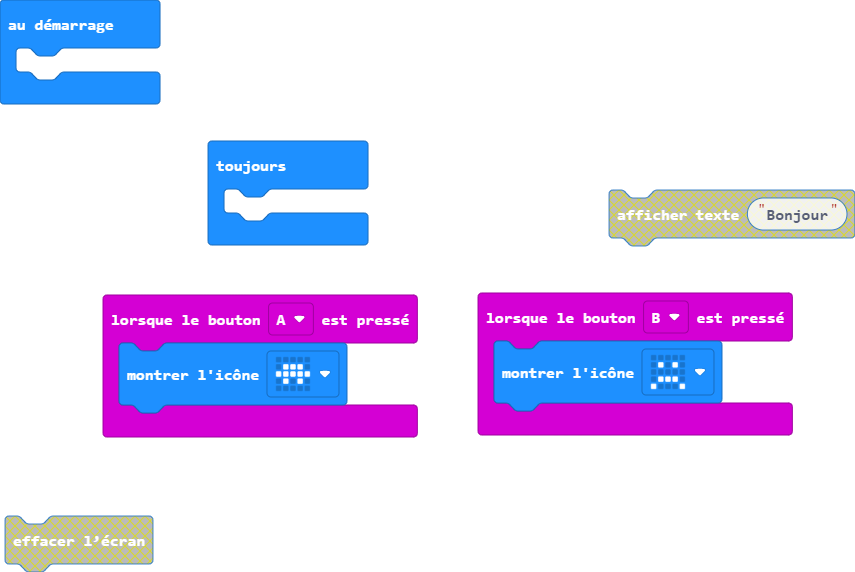
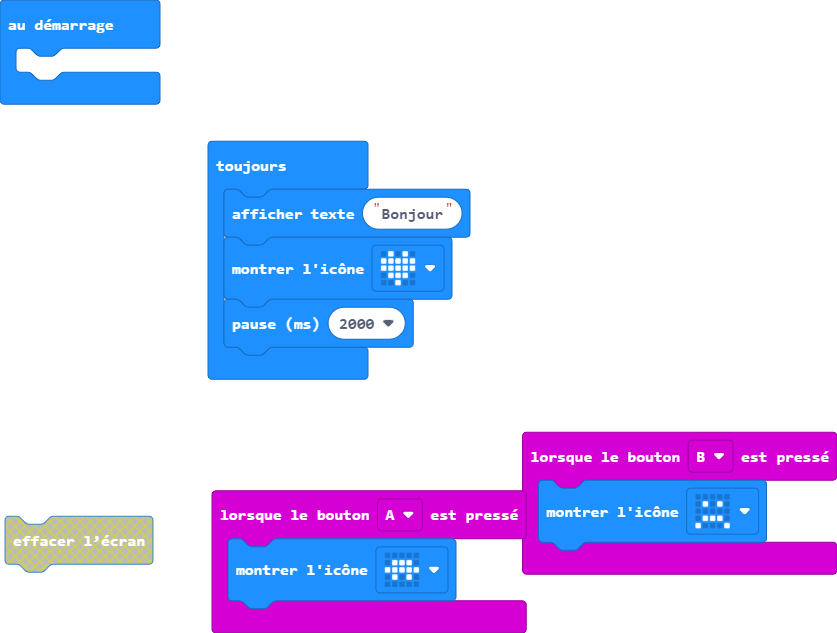
Mise à jour main.blocks, main.ts

diff --git a/main.ts b/main.ts
@@ -5,5 +5,7 @@ input.onButtonPressed(Button.B, function () {
     basic.showIcon(IconNames.Sad)
 })
 basic.forever(function () {
-	
+    basic.showString("Bonjour")
+    basic.showIcon(IconNames.Heart)
+    basic.pause(2000)
 })
